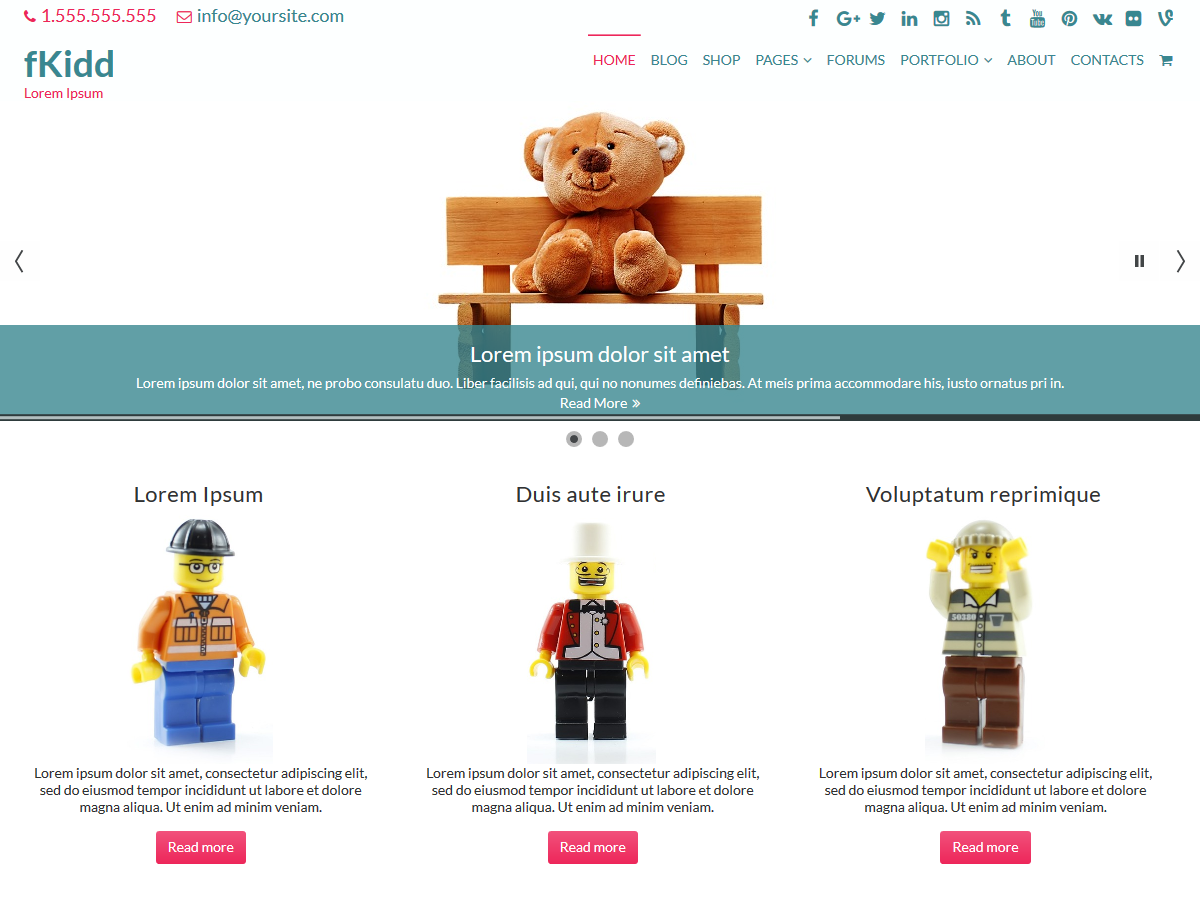
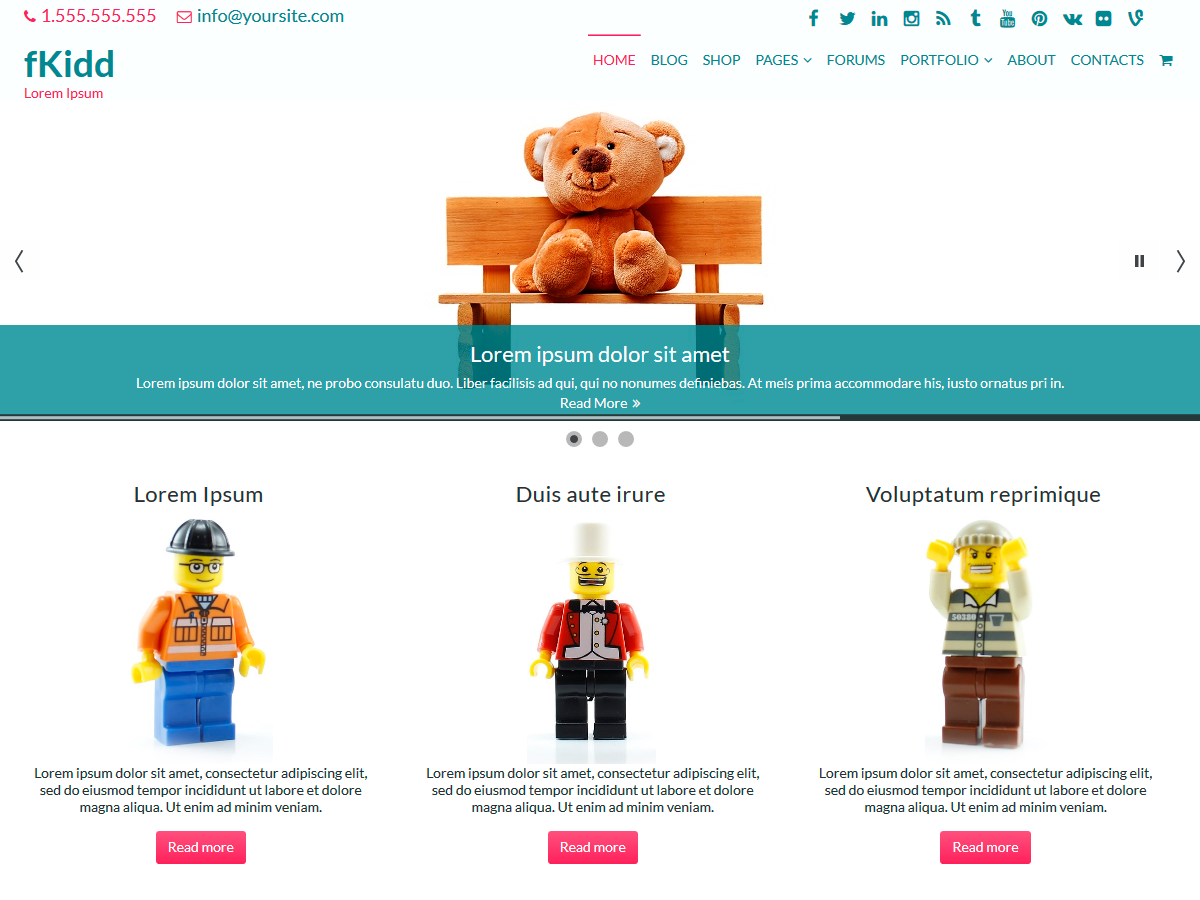
New version of fKidd - 1.9.7

diff --git a/style.css b/style.css
@@ -1,10 +1,10 @@
 /*!
 Theme Name: fKidd
-Description: fKidd is a Free Multi-Purpose WordPress Theme. Features: Fully Responsive, Customizable, Built-in Responsive Slider, WooCommerce plugin support, Multi-Level Drop-Down Menu, Homepage and Footer Widgets, W3C Markup Validated, Customizer Options: Social Sites, Header Phone and Email, Slider, Header Logo, Footer, Search Engine Optimized, Social Sites: Facebook, Google+, Twitter, LinkedIn, Instagram, RSS Feeds, Tumblr, YouTube, Pinterest, VK, Flickr, Vine, Multiple browsers support (IE 9, IE 10, IE 11, Chrome, Firefox, Opera, and Safari), Full-Width Page Template, Header and Footer Menu, Translation ready and much more. DEMO: https://tishonator.com/demo/fkidd
+Description: fKidd is a Free Multi-Purpose WordPress Theme. Features: Fully Responsive, Customizable, Built-in Responsive Slider, WooCommerce plugin support, Multi-Level Drop-Down Menu, Homepage and Footer Widgets, W3C Markup Validated, Customizer Options: Social Sites, Header Phone and Email, Slider, Header Logo, Footer, Search Engine Optimized, Social Sites: Facebook, Twitter, LinkedIn, Instagram, RSS Feeds, Tumblr, YouTube, Pinterest, VK, Flickr, Vine, Multiple browsers support (IE 9, IE 10, IE 11, Chrome, Firefox, Opera, and Safari), Full-Width Page Template, Header and Footer Menu, Translation ready and much more. DEMO: https://tishonator.com/demo/fkidd
 Theme URI: https://tishonator.com/product/fkidd
 Author: tishonator
 Author URI: https://tishonator.com
-Version: 1.9.6
+Version: 1.9.7
 Text Domain: fkidd
 Tags: education, blog, e-commerce, two-columns, right-sidebar, custom-logo, custom-background, custom-header, custom-menu, featured-images, post-formats, threaded-comments, sticky-post, theme-options, footer-widgets, translation-ready, full-width-template, front-page-post-form
 License: GNU General Public License v2 or later
@@ -2075,6 +2075,10 @@ li.product:before {
 
 #coupon_code {
     font-size: 11px;
+}
+
+mark {
+    background-color: unset;
 }
 
 /* theme has built-in breadcrumb, so hide the woocommerce breadcrumb */

diff --git a/functions.php b/functions.php
@@ -163,7 +163,6 @@ function fkidd_setup() {
 			'fkidd_slide3_image' => '{{image-slider-3}}',
 			'fkidd_slide3_content' => _x( 'Lorem ipsum dolor sit amet, consectetur adipiscing elit, sed do eiusmod tempor incididunt ut labore et dolore magna aliqua. Ut enim ad minim veniam, quis nostrud exercitation ullamco laboris nisi ut aliquip ex ea commodo consequat.', 'Theme starter content', 'fkidd' ),
 			'fkidd_social_facebook' => _x( '#', 'Theme starter content', 'fkidd' ),
-			'fkidd_social_google' => _x( '#', 'Theme starter content', 'fkidd' ),
 			'fkidd_social_twitter' => _x( '#', 'Theme starter content', 'fkidd' ),
 			'fkidd_social_linkedin' => _x( '#', 'Theme starter content', 'fkidd' ),
 			'fkidd_social_instagram' => _x( '#', 'Theme starter content', 'fkidd' ),
@@ -394,10 +393,6 @@ function fkidd_customize_register( $wp_customize ) {
 	// Add facebook url
 	fkidd_customize_add_social_site($wp_customize, 'fkidd_social_facebook',
 		__( 'Facebook Page URL', 'fkidd' ));
-
-	// Add google+ url
-	fkidd_customize_add_social_site($wp_customize, 'fkidd_social_google',
-		__( 'Google+ Page URL', 'fkidd' ));
 
 	// Add twitter url
 	fkidd_customize_add_social_site($wp_customize, 'fkidd_social_twitter',
@@ -659,8 +654,6 @@ function fkidd_display_single_social_site($socialSiteID, $title, $cssClass) {
 function fkidd_display_social_sites() {
 
 	fkidd_display_single_social_site('fkidd_social_facebook', __('Follow us on Facebook', 'fkidd'), 'facebook16' );
-
-	fkidd_display_single_social_site('fkidd_social_google', __('Follow us on Google+', 'fkidd'), 'google16' );
 
 	fkidd_display_single_social_site('fkidd_social_twitter', __('Follow us on Twitter', 'fkidd'), 'twitter16' );
 
